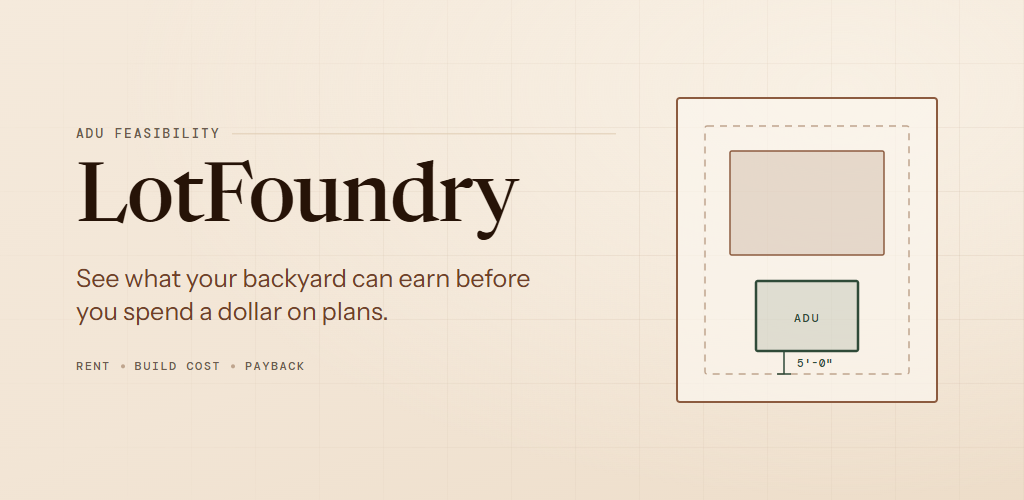
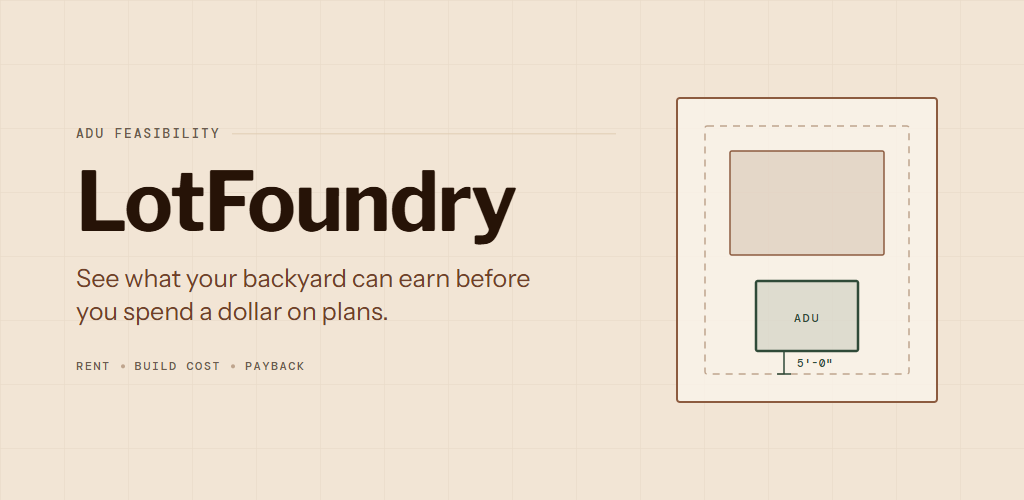
fix(android): harden release validation gates

Changed region(s): [[0.0625, 0.3, 0.5, 0.51]]

diff --git a/native/android/store-listing/feature-graphic.html b/native/android/store-listing/feature-graphic.html
@@ -16,7 +16,7 @@
 -->
 <link rel="preconnect" href="https://fonts.googleapis.com">
 <link rel="preconnect" href="https://fonts.gstatic.com" crossorigin>
-<link href="https://fonts.googleapis.com/css2?family=Newsreader:opsz,wght@6..72,400;6..72,500;6..72,600&family=Instrument+Sans:wght@400;500;600&family=DM+Mono:wght@400;500&display=swap" rel="stylesheet">
+<link href="https://fonts.googleapis.com/css2?family=DM+Mono:wght@400;500&family=Instrument+Sans:wght@400;500;600&family=Libre+Franklin:wght@400;500;600;700&display=swap" rel="stylesheet">
 <style>
   :root {
     --lf-sand: #F2E5D5;
@@ -44,9 +44,7 @@
     position: relative;
     width: 1024px;
     height: 500px;
-    background:
-      radial-gradient(120% 140% at 82% 18%, #F8F0E4 0%, rgba(248,240,228,0) 58%),
-      linear-gradient(160deg, #F5EADC 0%, #F2E5D5 55%, #EDDDC9 100%);
+    background: var(--lf-sand);
     overflow: hidden;
   }
 
@@ -54,13 +52,9 @@
   .grid {
     position: absolute;
     inset: 0;
-    background-image:
-      linear-gradient(to right, rgba(191,165,142,0.20) 1px, transparent 1px),
-      linear-gradient(to bottom, rgba(191,165,142,0.20) 1px, transparent 1px);
-    background-size: 64px 64px;
-    background-position: -1px -1px;
-    -webkit-mask-image: radial-gradient(120% 100% at 78% 50%, #000 0%, rgba(0,0,0,0.35) 55%, transparent 78%);
-            mask-image: radial-gradient(120% 100% at 78% 50%, #000 0%, rgba(0,0,0,0.35) 55%, transparent 78%);
+    width: 1024px;
+    height: 500px;
+    opacity: 0.2;
   }
 
   /* Parcel diagram: lot boundary, setback line, and the ADU footprint. */
@@ -94,9 +88,9 @@
 
   .wordmark {
     margin-top: 20px;
-    font-family: "Newsreader", Georgia, serif;
+    font-family: "Libre Franklin", system-ui, sans-serif;
     font-size: 82px;
-    font-weight: 500;
+    font-weight: 700;
     line-height: 0.98;
     letter-spacing: -0.018em;
     color: var(--lf-espresso);
@@ -128,7 +122,14 @@
 </head>
 <body>
   <div class="plate">
-    <div class="grid"></div>
+    <svg class="grid" width="1024" height="500" aria-hidden="true">
+      <defs>
+        <pattern id="survey-grid" width="64" height="64" patternUnits="userSpaceOnUse">
+          <path d="M 64 0 L 0 0 0 64" fill="none" stroke="#BFA58E" stroke-width="1"/>
+        </pattern>
+      </defs>
+      <rect width="1024" height="500" fill="url(#survey-grid)"/>
+    </svg>
 
     <svg class="parcel" width="286" height="330" viewBox="0 0 286 330" fill="none">
       <!-- lot boundary -->

diff --git a/docs/play-declarations.md b/docs/play-declarations.md
@@ -13,25 +13,17 @@ keystore, or a service-account key in Play Console or this repository.
 | Free or paid | `Free` |
 | Package name | `com.lotfoundry.app` |
 | App category | `House & Home` |
-| Contact email | `support@lotfoundry.net` |
+| Contact email | `support@lotfoundry.com` |
 | Privacy policy URL | `https://lotfoundry.net/privacy` |
 | Account deletion URL | `https://lotfoundry.net/delete-account` |
 | Developer Program Policies declaration | `Acknowledge` |
 | US export laws declaration | `Acknowledge` |
 
-### Contact address — decide which domain is canonical
+### Contact address
 
-The two Console contact fields above say `support@lotfoundry.net`, but the legal
-pages served at that domain send users elsewhere: `app/privacy/page.tsx` gives
-`privacy@lotfoundry.com` and `support@lotfoundry.com`, and
-`app/terms/page.tsx` gives `support@lotfoundry.com`.
-
-`lotfoundry.com` does resolve and carries Google MX records, so this is very
-likely a live mailbox rather than a dead address — but a reviewer following the
-privacy policy lands on a different domain than the one entered in Console, and
-a privacy contact is one of the things Play review actually exercises. Pick the
-mailbox that is really monitored and make Console, `/privacy`, and `/terms`
-agree on it.
+Use `support@lotfoundry.com`. It is the canonical support address on the
+implemented help, privacy, terms, and account-deletion surfaces. The Console
+listing must stay aligned with those user-facing routes.
 
 ## App integrity
 
@@ -53,7 +45,7 @@ Digital Asset Links statement. The currently served value is:
 | Short description | `See what your backyard can earn.` |
 | Full description | `Check your address for ADU rent, build cost, and payback estimates before you spend money on plans. Explore lot fit, compare assumptions, and save or share an early feasibility study. Estimates only; local review is still required before design, permitting, financing, or investment decisions.` |
 | Category | `House & Home` |
-| Email | `support@lotfoundry.net` |
+| Email | `support@lotfoundry.com` |
 | Privacy policy | `https://lotfoundry.net/privacy` |
 
 Upload current phone and tablet screenshots from the release candidate. Do not
@@ -83,7 +75,7 @@ them in Play Console's required dimensions.
 | Email address | Yes | Yes, after a homeowner submits a builder connection request | Account management, app functionality | No |
 | Phone number | Yes | Yes, after a homeowner submits a builder connection request | App functionality | No |
 | Address | Yes | Yes, after a homeowner submits a builder connection request | App functionality | No |
-| Precise location | Yes, from a typed address geocoded server-side | No | App functionality | No |
+| Precise location | Yes, from a user-entered property address geocoded server-side | No | App functionality | No |
 | Photos | Yes, only when the user submits an optional style-match photo | No | App functionality | No |
 | Purchase history | Yes | No | App functionality | No |
 | Other user-generated content (saved studies and feedback) | Yes | No | App functionality | No |
@@ -107,35 +99,16 @@ marketplace disclosure above is the only third-party sharing claim.
 |---|---|
 | Violence, sexual content, language, controlled substances, gambling | `No` to each |
 | Users interact or exchange content | `No` |
-| Shares user location with other users | Decide before submitting — see below |
+| Shares user location with other users | `No` — the app does not transmit the user's current device location to other people |
 | Purchases digital goods | `Yes` |
 
-`Shares user location with other users` is currently drafted as `No`, and that
-answer is hard to defend as written: unlocking a lead reveals the homeowner's
-**exact street address** to a builder, and builders are other users of the app.
-Two readings are available, and the difference matters enough to settle
-deliberately rather than by default.
-
-- `Yes` is the literal reading. A precise address does reach another user.
-- `No` is the reading IARC's wording invites, since the question targets
-  location-broadcasting features rather than a one-time disclosure the user
-  initiates for a specific counterparty.
-
-`Yes` is the safer answer: an IARC questionnaire that understates disclosure can
-invalidate the rating after the fact, whereas a conservative answer costs
-little for an app already rated `18 and over`. Whichever is chosen, keep it
-consistent with the Data safety sharing rows above.
-
-Two smaller items to settle in the same pass:
-
-- **`Precise location` is over-declared.** The app never requests a device
-  location permission; the value is a user-typed address, already disclosed
-  under `Address`. Declaring `Precise location` invites a reviewer question
-  about a permission the app does not hold. Consider `Not collected`.
-- **The release note names the domain.** `First LotFoundry Android release on
-  lotfoundry.net…` reads as wrapper-ish to a human reviewer, and store copy is
-  not the place for a hostname. Describing the capabilities instead costs
-  nothing.
+The IARC answer is `No`: the app does not transmit a user's current device
+location to other people. A homeowner can voluntarily share a property address
+with a builder through a connection request; Data safety separately discloses
+that address and conservatively declares precise location because an address can
+identify a physical place below the precise-location threshold. The app does not
+request a device-location permission. Keep these answers aligned with the
+marketplace-sharing rows above.
 
 ## Release upload
 
@@ -144,7 +117,7 @@ Two smaller items to settle in the same pass:
 | Artifact | `app-release.aab` from the GitHub Actions artifact `lotfoundry-android-release-aab` |
 | Version name | `1.0.6` |
 | Version code | `7` |
-| Release notes | `First LotFoundry Android release on lotfoundry.net, with the feasibility studio, saved studies, builder connections, and Google Play Billing.` |
+| Release notes | `First LotFoundry Android release with the feasibility studio, saved studies, builder connections, and Google Play Billing.` |
 
 Before upload, confirm in Play Console that the highest accepted version code is
 less than `7`; Play rejects a duplicate or lower code. After upload, test on a

diff --git a/native/android/README.md b/native/android/README.md
@@ -93,18 +93,34 @@ The web client detects `getDigitalGoodsService` and routes purchases through
 
 ```bash
 cd native/android
-./gradlew test bundleRelease
+./gradlew test
 ```
 
 Run `npm run android:validate` for committed configuration checks, which need
-no network. `npm run android:validate:live` adds the live-host checks: the
-canonical host must serve `/`, the start URL, and
-`/.well-known/assetlinks.json` with a direct 200 rather than a redirect, and
-the served asset-links fingerprints must match
-`public/.well-known/assetlinks.json`. `npm run android:validate:release` runs
-all of that plus the release gates, and expects the signed AAB at
-`native/android/app/build/outputs/bundle/release/app-release.aab`. The AAB,
-signing keys, and keystores are intentionally not committed.
+no network. `npm run android:validate:live` checks the canonical host's app,
+legal, manifest, and icon endpoints all serve a direct 200, and verifies that
+the served asset-links statement has the required relation, fingerprints, and
+`application/json` content type. `npm run android:validate:release` adds the
+release gates, expects the signed AAB at
+`native/android/app/build/outputs/bundle/release/app-release.aab`, and compares
+its signer with the upload keystore. The AAB, signing keys, and keystores are
+intentionally not committed.
+
+`bundleRelease` deliberately fails closed unless all four Gradle project
+properties are set. For a local release build, set these as environment-backed
+Gradle properties (substitute real local paths and values; do not commit them):
+
+```bash
+export ORG_GRADLE_PROJECT_LOTFOUNDRY_STORE_FILE=/path/to/upload.keystore
+export ORG_GRADLE_PROJECT_LOTFOUNDRY_STORE_PASSWORD='...'
+export ORG_GRADLE_PROJECT_LOTFOUNDRY_KEY_ALIAS='...'
+export ORG_GRADLE_PROJECT_LOTFOUNDRY_KEY_PASSWORD='...'
+
+cd native/android
+./gradlew --no-daemon :app:bundleRelease
+cd ../..
+npm run android:validate:release
+```
 
 Dependency resolution needs both `google()` and `mavenCentral()`. The
 Bubblewrap template shipped `jcenter()`, which is shut down; `guava`,
@@ -114,12 +130,13 @@ Central, so a cold build fails without it.
 ## GitHub Actions signing
 
 Run the manually triggered **Android release bundle** workflow only after these
-repository or protected-environment secrets are configured. It decodes the
-keystore into the ephemeral runner directory, passes signing values to Gradle
-as masked environment-backed project properties, verifies that the upload
-certificate is already trusted by the TWA, confirms the finished bundle is
-signed by that exact certificate, uploads only the AAB, and removes the
-keystore.
+secrets are configured in GitHub's protected `play-production` environment. It
+decodes the keystore into the ephemeral runner directory, passes signing values
+to Gradle as masked environment-backed project properties, verifies that the
+upload certificate is already trusted by the TWA, confirms the finished bundle
+is signed by that exact certificate, uploads only the AAB, and removes the
+keystore. Configure the environment's required reviewers and deployment-branch
+rules before adding the secrets.
 
 | Secret | Value |
 |---|---|

diff --git a/docs/play-production-release.md b/docs/play-production-release.md
@@ -49,8 +49,10 @@ Confirmed 2026-09-03 against the live host:
 - `versionCode 7` exceeds the `PUBLISHED_VERSION_CODE = 6` ceiling.
 - Repo gate green: lint, `tsc --noEmit`, 739 unit tests, production build.
 
-`npm run android:validate:release` re-checks all of the above, including the
-live host, and additionally requires the built AAB. Run it before uploading.
+`npm run android:validate:release` re-checks the listed live endpoints,
+asset-links content, and the built AAB's signer. It does not re-run lint,
+TypeScript, unit tests, or the production build; use the current CI `verify`
+job (or re-run those checks) as evidence for that separate repo gate.
 
 A second audit on 2026-09-03 re-read the whole release path and found the
 static side clean: `verifyReleaseSigning` has no reachable debug or unsigned
@@ -60,13 +62,14 @@ rather than only checking their shape, the version pair agrees across
 `lib/commerce/products.ts` character for character, and the workflow uploads
 with `if-no-files-found: error`. The live statement at
 `lotfoundry.net/.well-known/assetlinks.json` was re-fetched and still matches
-both committed fingerprints. The only release-blocking item is the Play Billing
-configuration above.
+both committed fingerprints. Release remains blocked until the Play Billing
+configuration above is complete and its sandbox purchase grants an entitlement.
 
 ## 1. Secrets
 
-Four repository (or protected-environment) secrets, all from the Play **upload**
-key. Google retains the App Signing private key; the workflow never needs it.
+Four protected-environment secrets in GitHub environment `play-production`, all
+from the Play **upload** key. Google retains the App Signing private key; the
+workflow never needs it.
 
 | Secret | Value |
 |---|---|
@@ -93,11 +96,11 @@ same build runs locally with a JDK 21 and the Android SDK:
 
 ```bash
 cd native/android
-ORG_GRADLE_PROJECT_LOTFOUNDRY_STORE_FILE=/path/to/upload.keystore \
-ORG_GRADLE_PROJECT_LOTFOUNDRY_STORE_PASSWORD=… \
-ORG_GRADLE_PROJECT_LOTFOUNDRY_KEY_ALIAS=… \
-ORG_GRADLE_PROJECT_LOTFOUNDRY_KEY_PASSWORD=… \
-  ./gradlew --no-daemon :app:bundleRelease
+export ORG_GRADLE_PROJECT_LOTFOUNDRY_STORE_FILE=/path/to/upload.keystore
+export ORG_GRADLE_PROJECT_LOTFOUNDRY_STORE_PASSWORD=…
+export ORG_GRADLE_PROJECT_LOTFOUNDRY_KEY_ALIAS=…
+export ORG_GRADLE_PROJECT_LOTFOUNDRY_KEY_PASSWORD=…
+./gradlew --no-daemon :app:bundleRelease
 cd ../..
 npm run android:validate:release
 ```
@@ -133,6 +136,7 @@ Take verbatim values from `docs/play-declarations.md`:
 - **Data safety** — the marketplace sharing disclosure is the only third-party
   sharing claim. Everything collected is encrypted in transit.
 - **Content rating** — IARC questionnaire; digital-goods purchases are `Yes`.
+  The app does not transmit current device location to other people.
 
 ## 4. In-app products
 
